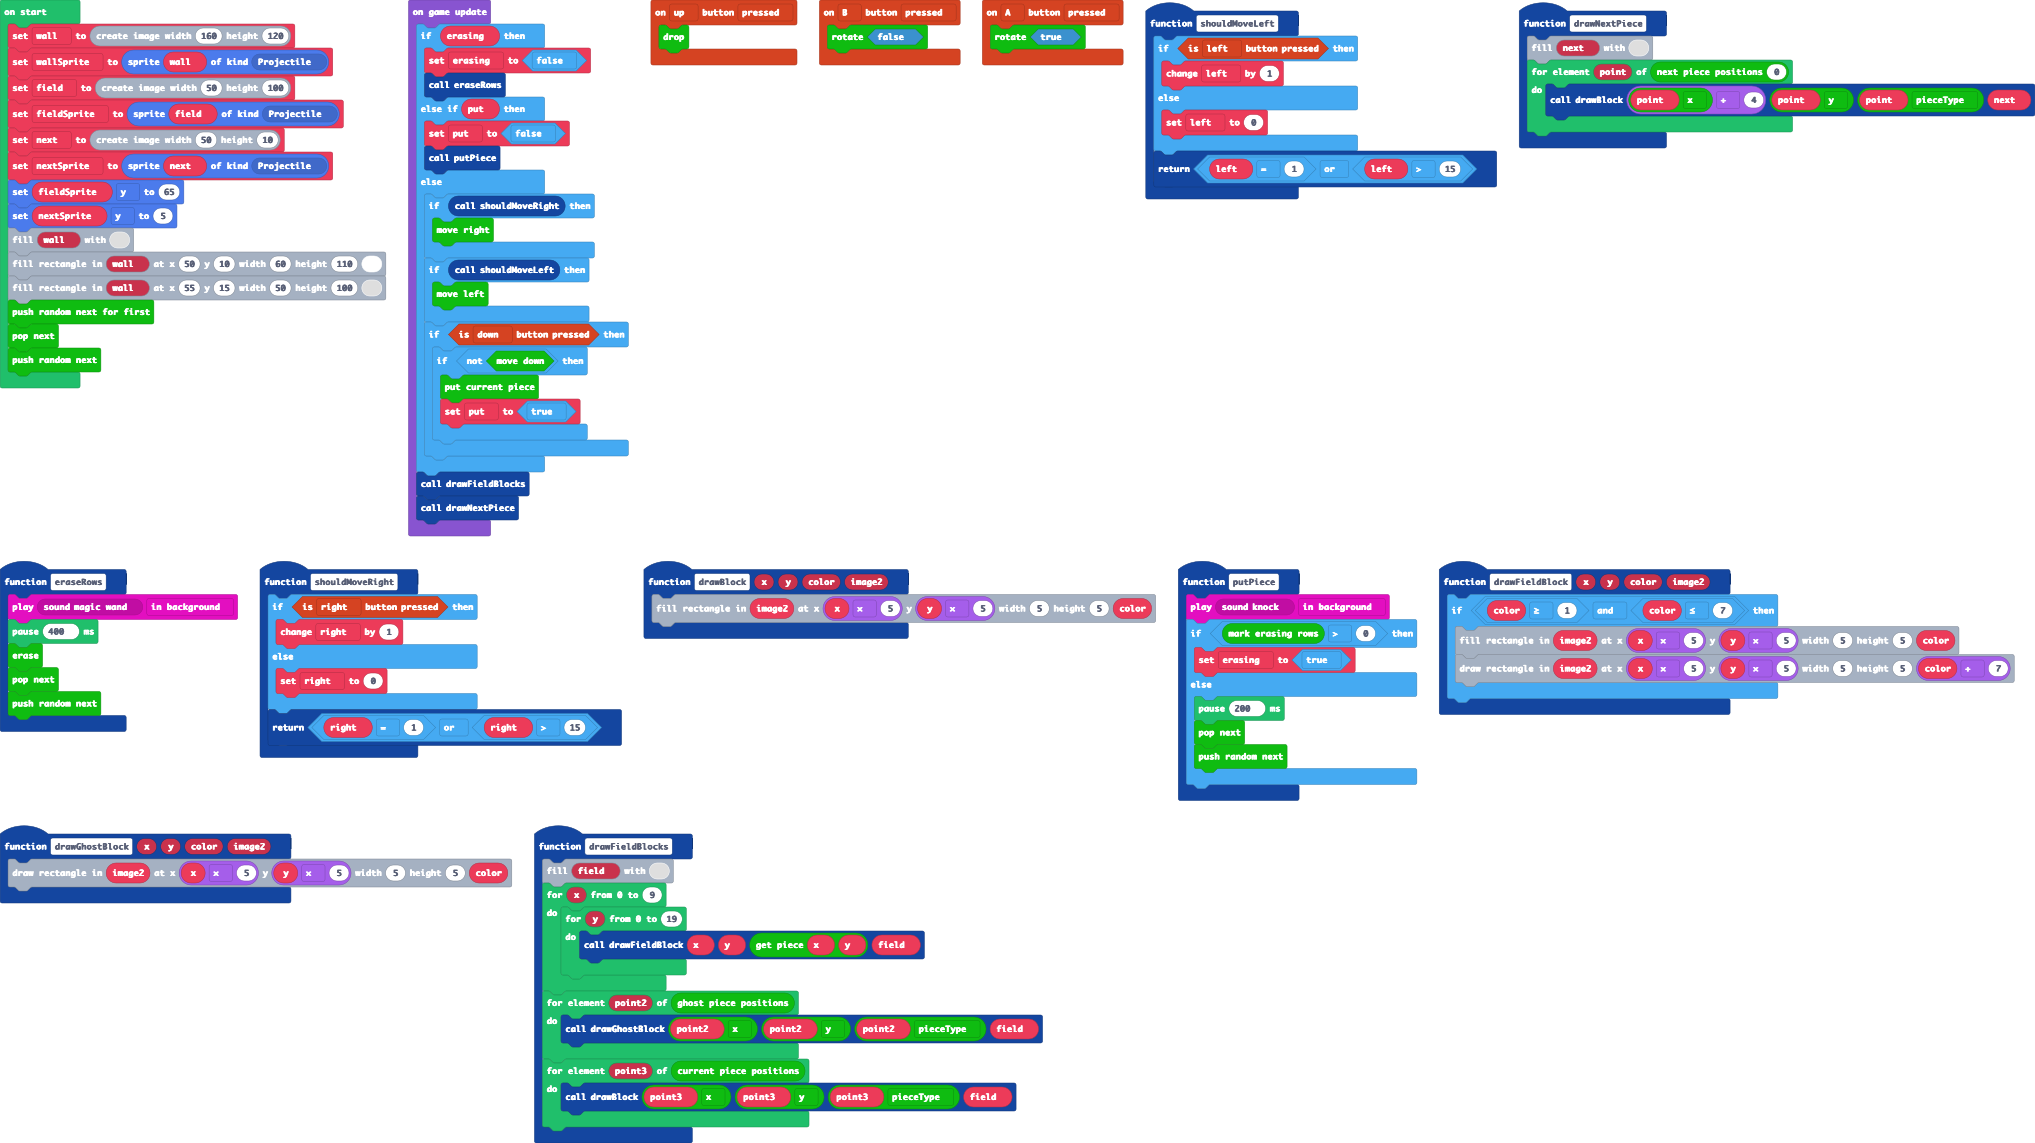
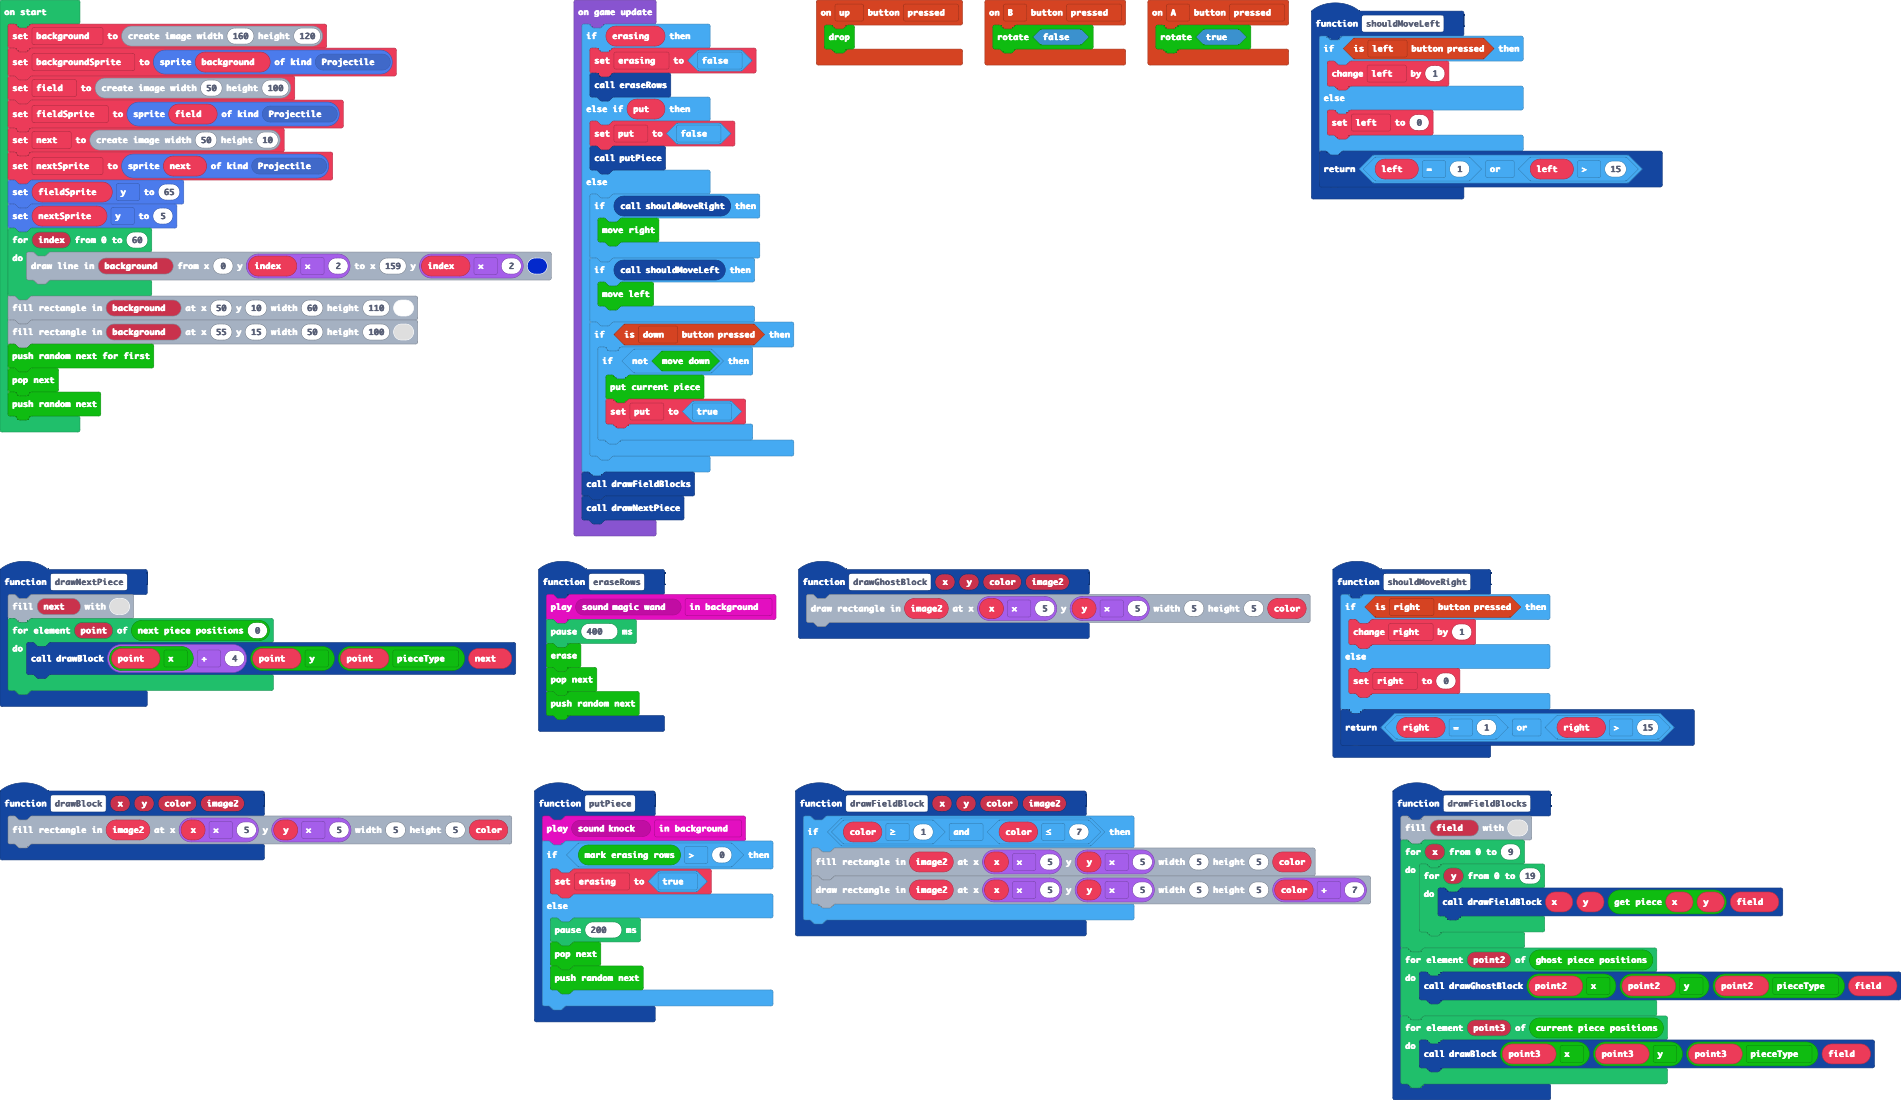
Change the color

diff --git a/main.ts b/main.ts
@@ -78,17 +78,19 @@ let erasing = false
 let left = 0
 let next: Image = null
 let field: Image = null
-let wall = image.create(160, 120)
-let wallSprite = sprites.create(wall, SpriteKind.Projectile)
+let background = image.create(160, 120)
+let backgroundSprite = sprites.create(background, SpriteKind.Projectile)
 field = image.create(50, 100)
 let fieldSprite = sprites.create(field, SpriteKind.Projectile)
 next = image.create(50, 10)
 let nextSprite = sprites.create(next, SpriteKind.Projectile)
 fieldSprite.y = 65
 nextSprite.y = 5
-wall.fill(0)
-wall.fillRect(50, 10, 60, 110, 15)
-wall.fillRect(55, 15, 50, 100, 0)
+for (let index = 0; index <= 60; index++) {
+    background.drawLine(0, index * 2, 159, index * 2, 11)
+}
+background.fillRect(50, 10, 60, 110, 15)
+background.fillRect(55, 15, 50, 100, 0)
 TGM.pushRandomNextForFirst()
 TGM.popNext()
 TGM.pushRandomNext()
